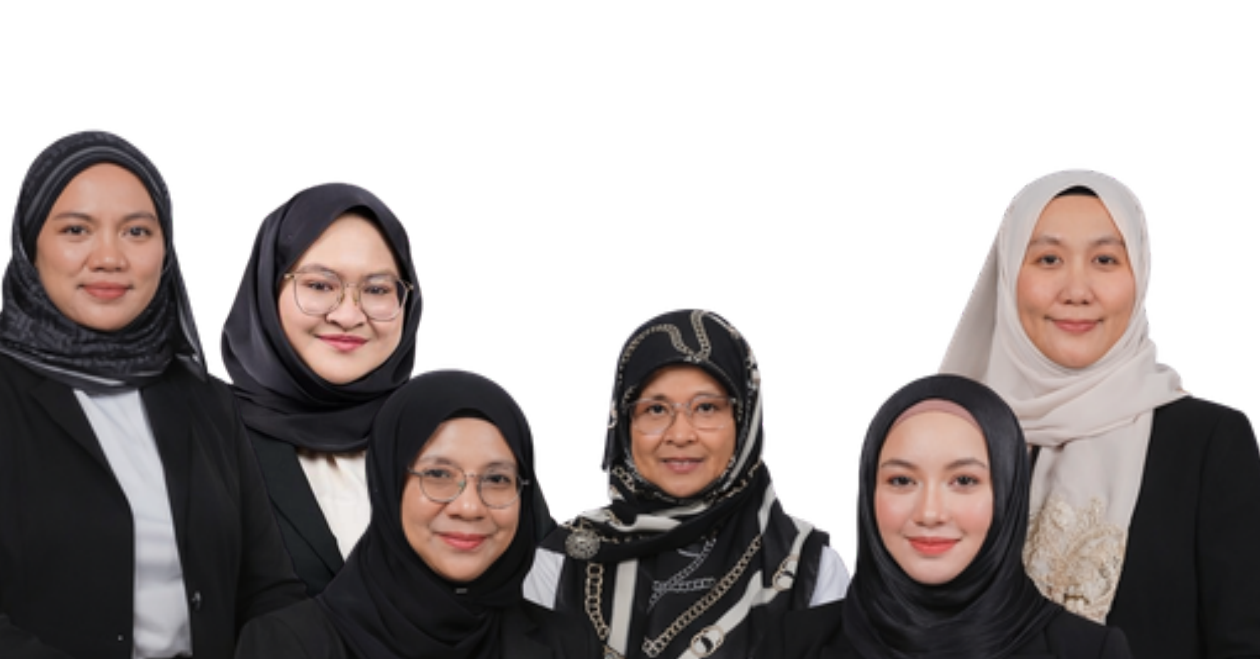
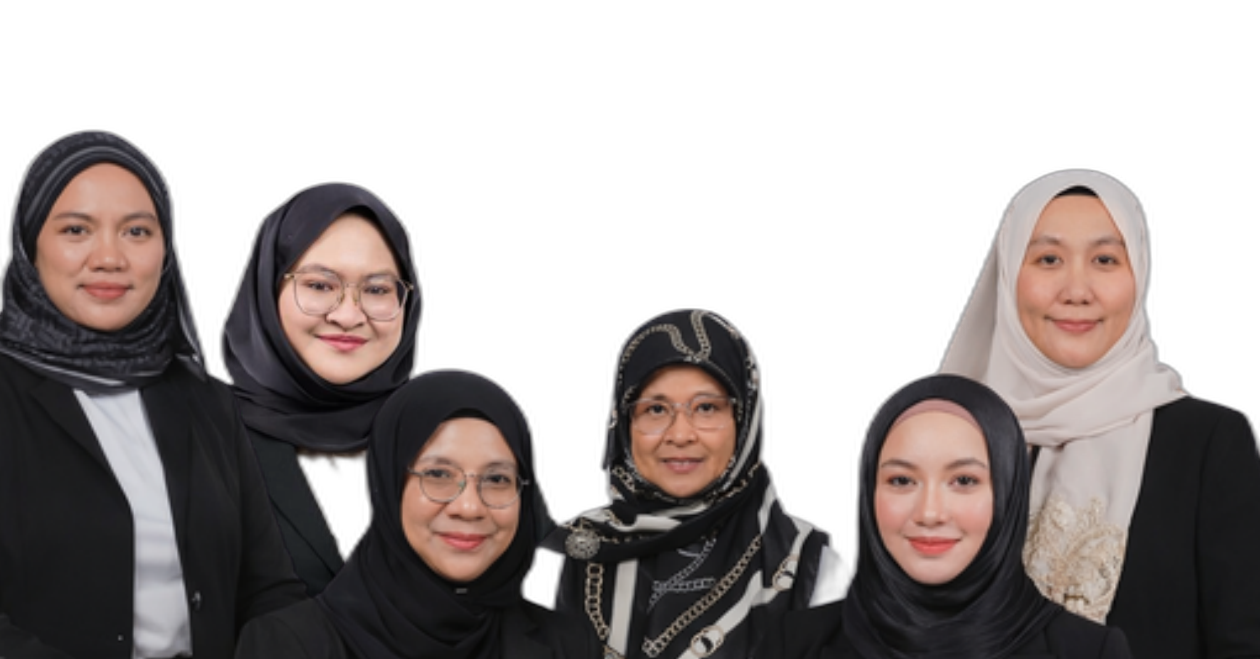
Remove white background from group photo for a transparent blend
Background-removed the group photo (rembg) so it sits directly on
the section's cream background instead of a white card, which looked
boxy. Dropped the matting/border wrapper and decorative offset square
since they no longer suit a transparent cutout.

diff --git a/site/src/components/Welcome.tsx b/site/src/components/Welcome.tsx
@@ -23,20 +23,15 @@ export function Welcome() {
         </div>
       </div>
 
-      <Reveal y={40} delay={0.15} className="mx-auto mt-16 max-w-5xl px-6 sm:px-10">
-        <div className="relative">
-          <div className="absolute -bottom-4 -right-4 -z-10 h-full w-full bg-black sm:-bottom-6 sm:-right-6" />
-          <div className="relative w-full border border-border bg-white p-5 sm:p-10 md:p-14">
-            <Image
-              src={welcome.image}
-              alt="Isadora & Associates team"
-              width={1260}
-              height={659}
-              sizes="(max-width: 1024px) 100vw, 1024px"
-              className="h-auto w-full"
-            />
-          </div>
-        </div>
+      <Reveal y={40} delay={0.15} className="mx-auto mt-16 max-w-4xl px-6 sm:px-10">
+        <Image
+          src={welcome.image}
+          alt="Isadora & Associates team"
+          width={1260}
+          height={659}
+          sizes="(max-width: 1024px) 100vw, 896px"
+          className="h-auto w-full"
+        />
       </Reveal>
     </section>
   );
